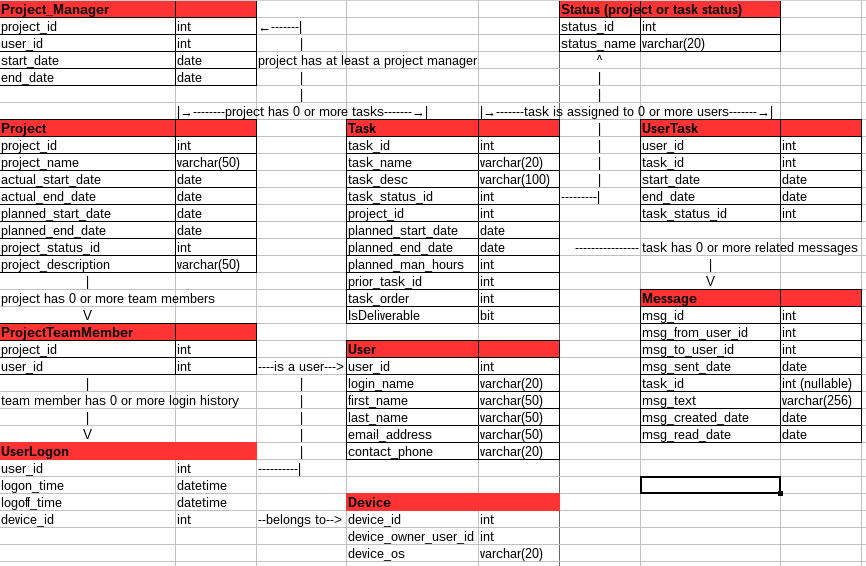
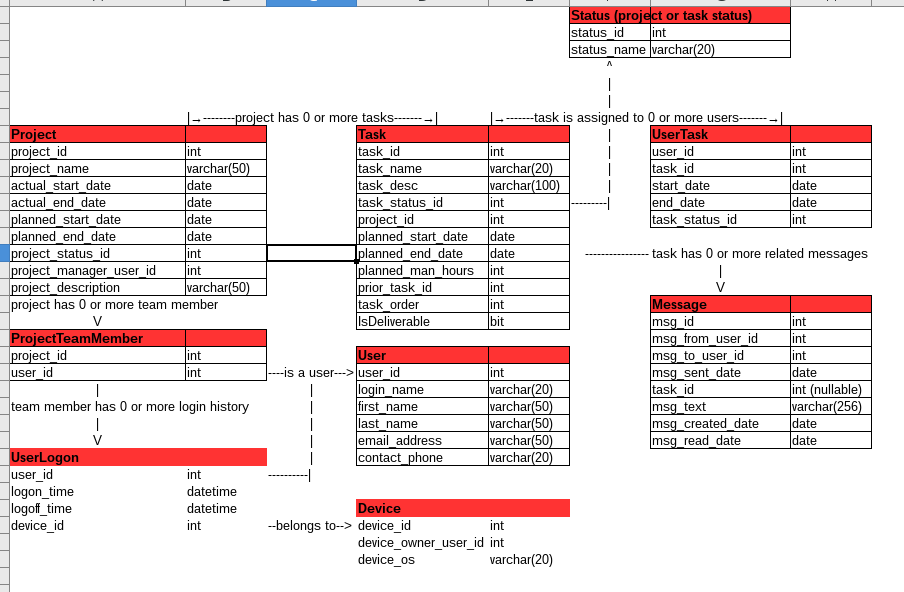
updated schema; fixed listview font

Changed region(s): [[0.0, 0.0, 1.0, 1.0], [0.2806, 0.0901, 0.5612, 0.1201], [0.7171, 0.841, 0.9042, 0.9011]]

diff --git a/TeamUp/app/src/main/java/com/teamup/teamup/MainActivity.java b/TeamUp/app/src/main/java/com/teamup/teamup/MainActivity.java
@@ -43,6 +43,7 @@ public class MainActivity extends AppCompatActivity {
         super.onCreate(savedInstanceState);
         setContentView(R.layout.activity_main);
         Toolbar toolbar = (Toolbar) findViewById(R.id.toolbar);
+        //setSupportActionBar(toolbar);
         FloatingActionButton fab = (FloatingActionButton) findViewById(R.id.fab);
         mLayout = (LinearLayout) findViewById(R.id.linearLayout);
         // components from main.xml
